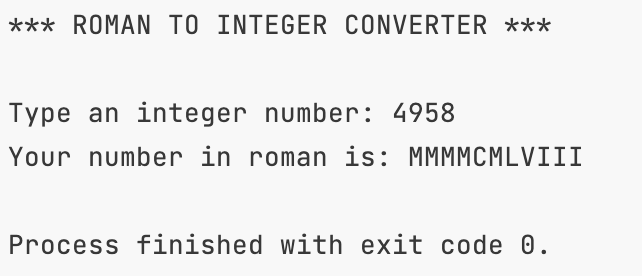
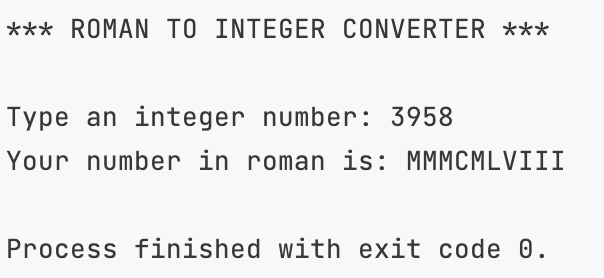
IntergerToRoman

diff --git a/IntegerToRoman/Program.cs b/IntegerToRoman/Program.cs
@@ -1,4 +1,5 @@
-Console.WriteLine("*** ROMAN TO INTEGER CONVERTER ***\n");
+//Maximum value to convert is 3999
+Console.WriteLine("*** ROMAN TO INTEGER CONVERTER ***\n");
 
 int thousand, hundred, ten, unit, i, j;
 string romanThousand = "", romanHundred = "", romanTen = "", romanUnit = "";
